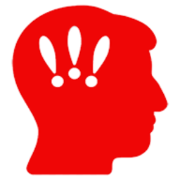
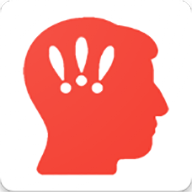
changed default background, added transfluent background in ios status bar

diff --git a/public/index.html b/public/index.html
@@ -7,9 +7,12 @@
   <meta name="viewport" content="width=device-width, initial-scale=1" />
   <meta
     name="description"
-    content="Todo web application"
+    content="What's yours problems ?"
   />
+  <meta name="apple-mobile-web-app-capable" content="yes">
+  <meta name="apple-mobile-web-app-status-bar-style" content="black-translucent">
   <link rel="apple-touch-icon" href="%PUBLIC_URL%/apple-touch-icon.png" />
+
   <!--
     manifest.json provides metadata used when your web app is installed on a
     user's mobile device or desktop. See https://developers.google.com/web/fundamentals/web-app-manifest/
@@ -24,7 +27,7 @@
     work correctly both with client-side routing and a non-root public URL.
     Learn how to configure a non-root public URL by running `npm run build`.
   -->
-  <title>Todo App</title>
+  <title>Your Problems</title>
 </head>
 <body>
 <noscript>You need to enable JavaScript to run this app.</noscript>

diff --git a/src/index.css b/src/index.css
@@ -1,18 +1,12 @@
 @import "~materialize-css/dist/css/materialize.min.css";
 
-* {
-    margin: 0;
-    padding: 0;
-    box-sizing: border-box;
-}
-
 /*THEME: LIGHT MODE --DEFAULT*/
 :root {
     --text--main: #333333;
     --text--dimmed: #2d3131;
 
-    --background--main: #f0f5f5;
-    --background--elements: #ccd0d0;
+    --background--main: #ccd0d0;
+    --background--elements: #f0f5f5;
 }
 
 /*THEME: DARK MODE*/
@@ -22,7 +16,13 @@
 
     --background--main: #242727;
     --background--elements: #1b1d1d;
+}
 
+
+* {
+    margin: 0;
+    padding: 0;
+    box-sizing: border-box;
 }
 
 body {
@@ -36,6 +36,10 @@ body {
 
 .todo-list {
     margin-bottom: 2.8rem;
+}
+
+.input-field label {
+    color: var(--text--dimmed);
 }
 
 .todo {
